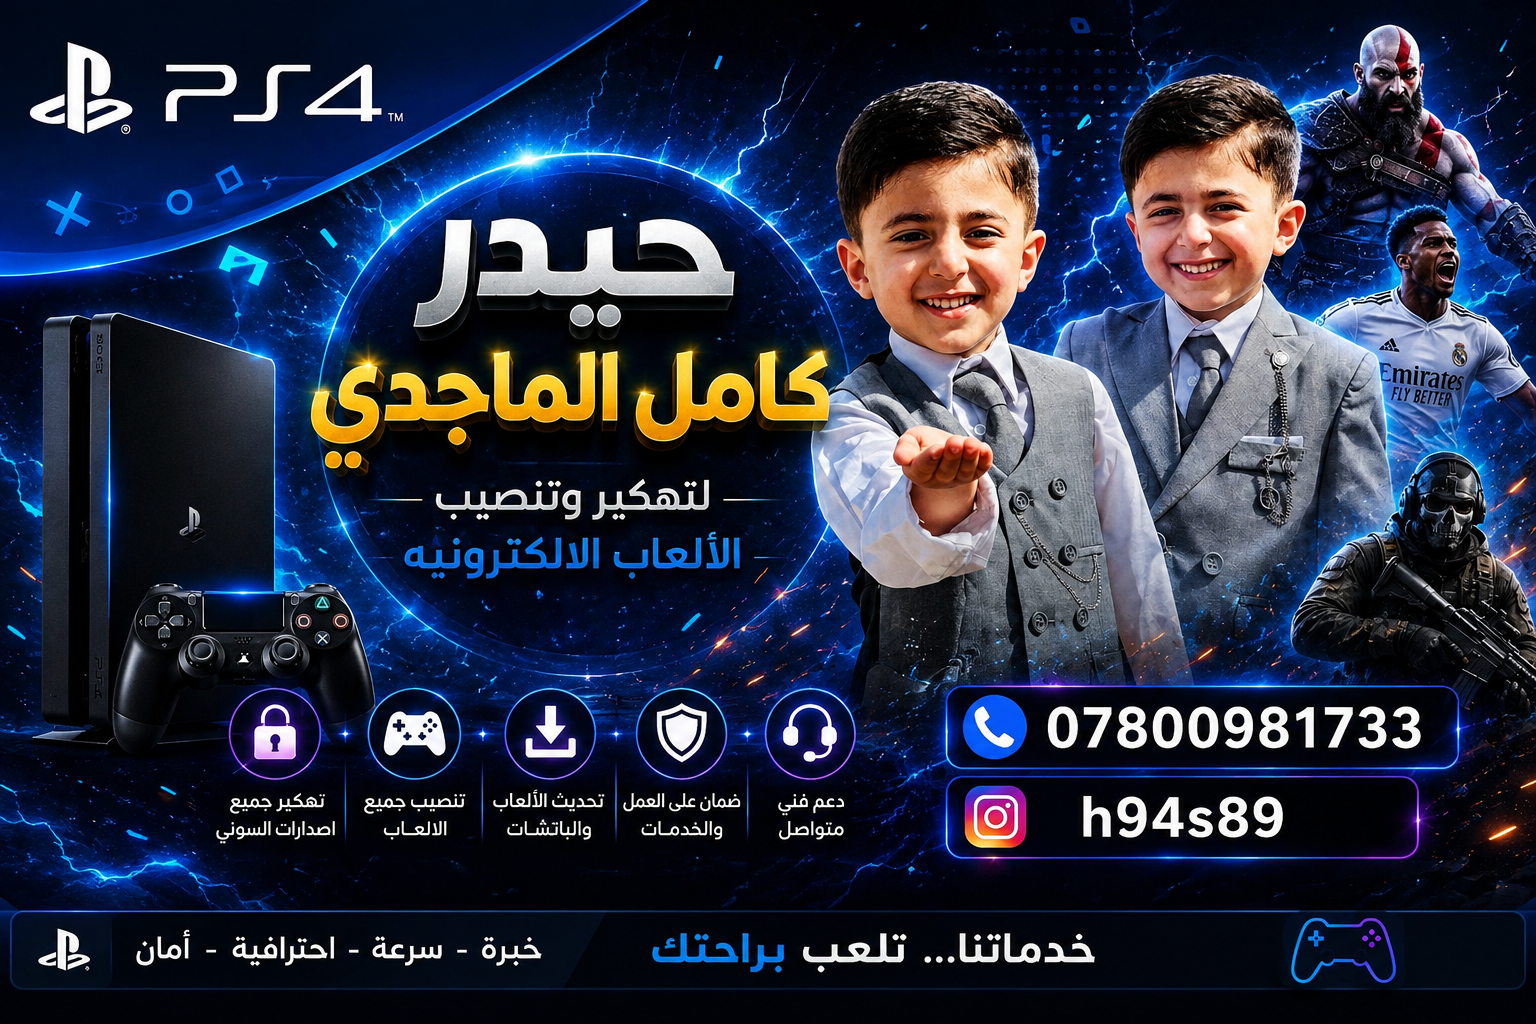
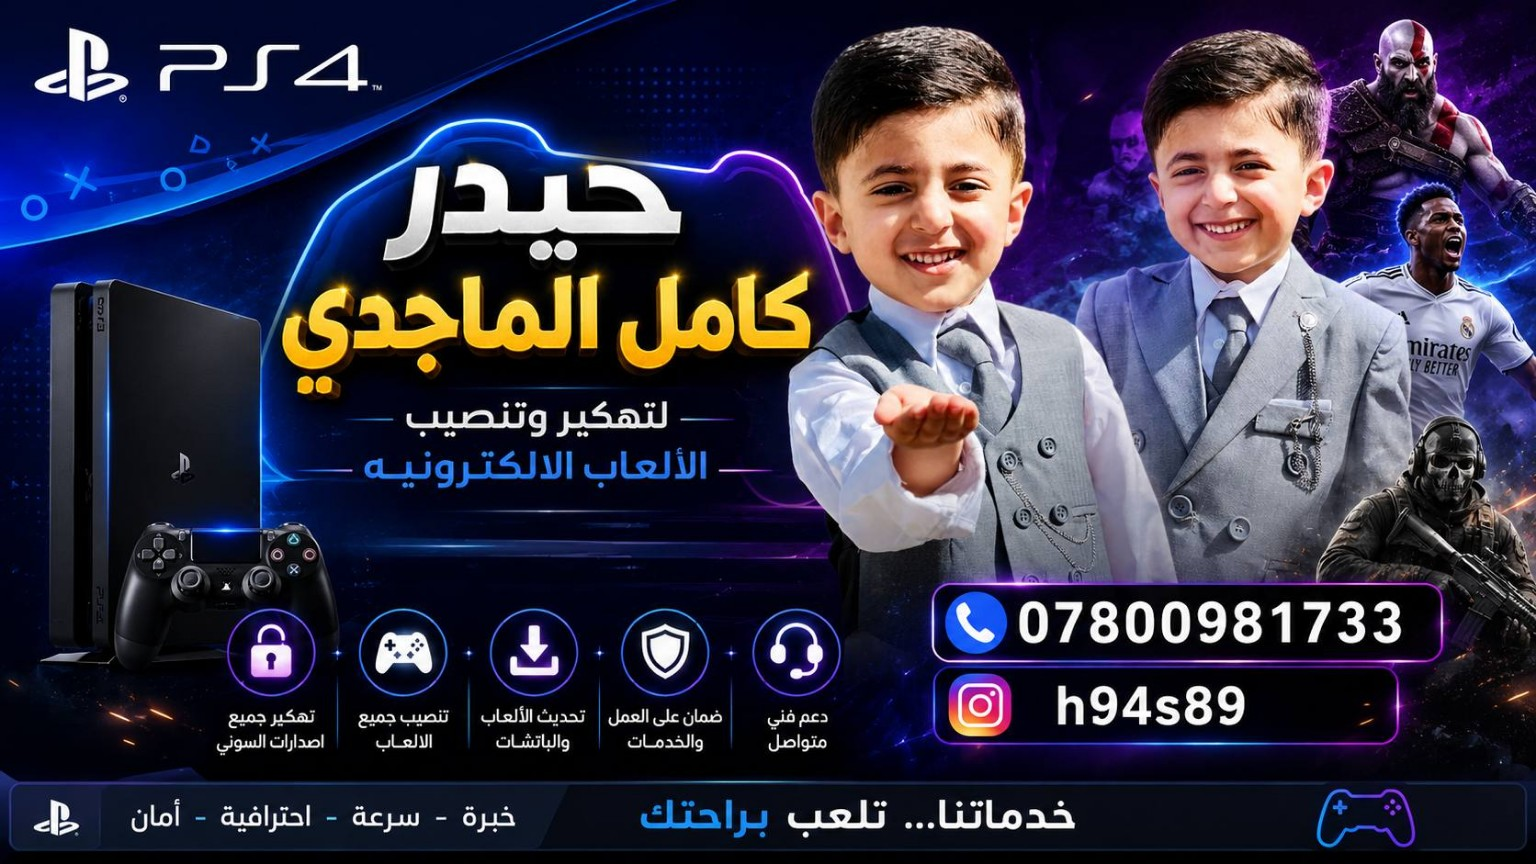
Add files via upload

diff --git a/index.html b/index.html
@@ -27,7 +27,7 @@
 <link rel="stylesheet" href="unified-theme.css">
 <style id="global-background-fix">
 html,body{min-height:100%;margin:0;}
-body{background-color:#020711 !important;background-image:url("background.png") !important;background-size:cover !important;background-position:center center !important;background-repeat:no-repeat !important;background-attachment:fixed !important;}
+body{background-color:#020711 !important;background-image:url("background.png") !important;background-size:cover !important;background-position:relative center !important;background-repeat:no-repeat !important;background-attachment:fixed !important;}
 </style>
 <style id="pro-theme">
 :root{
@@ -44,7 +44,7 @@ body{
   color:var(--text)!important;
   background-color:#020714!important;
   background-size:cover!important;
-  background-position:center!important;
+  background-position:relative!important;
   background-repeat:no-repeat!important;
   background-attachment:fixed!important;
   font-family:Arial,sans-serif!important;
@@ -74,26 +74,125 @@ h1,h2,h3{color:#f5fdff!important;text-shadow:0 0 10px rgba(32,217,255,.25)!impor
 </style>
 <style id="user-background">
 html,body{min-height:100%!important;margin:0!important}
-body{background-color:#020714!important;background-image:url("background.png")!important;background-size:cover!important;background-position:center center!important;background-repeat:no-repeat!important;background-attachment:fixed!important}
+body{background-color:#020714!important;background-image:url("background.png")!important;background-size:cover!important;background-position:relative center!important;background-repeat:no-repeat!important;background-attachment:fixed!important}
+</style><style id="all-firmware-centered-compact">
+/* Unified compact/centered UI for every firmware page. UI-only; exploit scripts/assets untouched. */
+html,body{min-height:100%;margin:0!important;}
+body{min-height:100vh!important;width:100%!important;box-sizing:border-box!important;display:flex!important;flex-direction:column!important;align-items:center!important;justify-content:center!important;overflow-x:hidden!important;padding:10px!important;}
+body>*{box-sizing:border-box!important;}
+.container,.main-layout,#wrap,.page,.card,.wrap{width:min(430px,88vw)!important;max-width:430px!important;margin-left:auto!important;margin-right:auto!important;}
+.container{min-height:0!important;padding:10px!important;}
+.main-layout{min-height:0!important;}
+.header-section{margin:0 0 7px!important;}
+.main-title,h1,.title,#state{font-size:clamp(17px,2.5vw,24px)!important;line-height:1.15!important;margin:0 0 6px!important;}
+#det,#cache,.fw,.status{font-size:10px!important;line-height:1.35!important;}
+#console{width:100%!important;max-width:430px!important;max-height:125px!important;min-height:45px!important;padding:7px 9px!important;font-size:9px!important;line-height:1.35!important;overflow:auto!important;box-sizing:border-box!important;}
+.btn-container,.autoJb,#kernel-options{max-width:430px!important;margin-left:auto!important;margin-right:auto!important;}
+button,#jeilbrek,[type=button]{min-width:150px!important;width:180px!important;height:40px!important;font-size:12px!important;margin:6px auto!important;}
+.action{width:210px!important;height:115px!important;margin:8px auto!important;padding:9px!important;}
+.action button{width:160px!important;height:40px!important;}
+.url{width:min(430px,88vw)!important;height:30px!important;font-size:9px!important;}
+.logbox{width:min(430px,88vw)!important;height:min(145px,24vh)!important;}
+.loghead{height:27px!important;padding:7px 9px!important;font-size:9px!important;}
+.logbox #console{max-height:none!important;height:calc(100% - 27px)!important;}
+.footer{font-size:8px!important;margin-top:7px!important;}
+#cache-status{width:min(390px,82vw)!important;padding:14px 16px!important;border-radius:12px!important;}
+#cache-status>div:first-child{font-size:17px!important;}
+#cache-text{font-size:12px!important;}
+@media(max-height:650px){body{padding:6px!important}.action{height:95px!important;margin:5px auto!important}.logbox{height:105px!important}.url{height:27px!important}.main-title,h1,.title,#state{font-size:18px!important}}
 </style>
-
-<style id="small-start-status">
-#small-start-status{
- position:fixed;left:50%;top:50%;transform:translate(-50%,-50%);
- z-index:2147483646;width:245px;min-height:105px;box-sizing:border-box;
- padding:10px 12px;border:1px solid rgba(32,217,255,.75);
- border-radius:10px;background:rgba(2,7,18,.82);
- box-shadow:0 0 18px rgba(32,217,255,.16),inset 0 0 12px rgba(32,217,255,.05);
- color:#eafcff;font:12px Arial,sans-serif;display:none;
+<style id="ui-final-center-compact">
+/* FINAL UI LAYOUT — visual sizing/position only */
+html,body{width:100%!important;min-width:0!important;min-height:100%!important;margin:0!important;padding:0!important;overflow-x:hidden!important;}
+body{display:flex!important;align-items:center!important;justify-content:center!important;box-sizing:border-box!important;padding:8px!important;}
+body>*{box-sizing:border-box!important;}
+#wrap,.wrap,.container,.main-container,.page,.app,.panel,.card,.box{
+  box-sizing:border-box!important;
 }
-#small-start-status .st{font-size:11px;color:#55eaff;margin-bottom:7px}
-#small-start-status .row{line-height:18px;color:#ccecf5}
-#small-start-status .ok{color:#5cff8a}
+#wrap,.wrap{
+  width:min(360px,82vw)!important;
+  max-width:360px!important;
+  min-width:0!important;
+  margin:0 auto!important;
+}
+#wrap .card,.wrap .card,.card{
+  width:100%!important;
+  max-width:360px!important;
+  margin:0 auto!important;
+  box-sizing:border-box!important;
+}
+.main-container,.container,.panel,.box{
+  width:min(360px,82vw)!important;
+  max-width:360px!important;
+  min-width:0!important;
+  margin-left:auto!important;margin-right:auto!important;
+}
+.main-title,h1,.title,#state,.brand{
+  font-size:18px!important;
+  line-height:1.2!important;
+  margin:5px auto!important;
+}
+.sub,.subtitle,.description{font-size:10px!important;line-height:1.25!important;}
+.action,.actions{
+  width:100%!important;
+  max-width:340px!important;
+  min-height:0!important;
+  height:auto!important;
+  margin:5px auto!important;
+  padding:7px!important;
+  box-sizing:border-box!important;
+}
+button,.btn,.button,a.button{
+  max-width:100%!important;
+  min-height:30px!important;
+  height:auto!important;
+  padding:6px 10px!important;
+  font-size:12px!important;
+  box-sizing:border-box!important;
+}
+input,select{max-width:100%!important;box-sizing:border-box!important;}
+.logbox{
+  width:100%!important;
+  max-width:340px!important;
+  height:105px!important;
+  margin:6px auto!important;
+  box-sizing:border-box!important;
+}
+.loghead{height:25px!important;padding:5px 7px!important;font-size:9px!important;}
+.logbox #console,#console{
+  max-width:100%!important;
+  font-size:9px!important;
+  line-height:1.25!important;
+  box-sizing:border-box!important;
+}
+.url{
+  width:100%!important;
+  max-width:340px!important;
+  height:27px!important;
+  margin:5px auto!important;
+  font-size:10px!important;
+  box-sizing:border-box!important;
+}
+.footer{font-size:8px!important;margin:5px auto!important;}
+.bar{max-width:340px!important;margin:6px auto!important;}
+#cache-status{max-width:340px!important;width:100%!important;box-sizing:border-box!important;}
+/* Correct invalid declaration used by older pages */
+[style*="position:center"]{position:relative!important;}
+@media (max-width:600px){
+  #wrap,.wrap,.main-container,.container,.panel,.box,.card{width:min(340px,84vw)!important;max-width:340px!important;}
+}
+@media (max-height:650px){
+  body{padding:5px!important;align-items:center!important;}
+  .main-title,h1,.title,#state,.brand{font-size:16px!important;margin:3px auto!important;}
+  .action,.actions{padding:5px!important;margin:3px auto!important;}
+  .logbox{height:85px!important;margin:4px auto!important;}
+  .loghead{height:22px!important;}
+  .url{height:24px!important;margin:3px auto!important;}
+  button,.btn,.button,a.button{min-height:27px!important;padding:4px 8px!important;font-size:11px!important;}
+}
 </style>
-<style id="keep-original-background">html,body{min-height:100%;margin:0}body{background:#020714 url("background.png") center/cover no-repeat fixed!important}</style><style id="exact-user-background">
-html,body{min-height:100%!important;margin:0!important;background:#020714!important;}
-body{background-image:url("background.jpg")!important;background-size:cover!important;background-position:center center!important;background-repeat:no-repeat!important;background-attachment:fixed!important;}
-</style></head>
+<link rel="stylesheet" href="transparent-ui.css">
+</head>
 <body>
 
     <audio id="bg-music" preload="auto" loop playsinline><source src="music_background.mp3" type="audio/mpeg"></audio>
@@ -262,14 +361,5 @@ window.jailbreakSuccess=function(){if(typeof old==='function'){try{old.apply(thi
 setInterval(function(){sample();if(successText())activate();render()},100);
 })();
 </script>
-
-
-<div id="small-start-status" aria-hidden="true">
-  <div class="st">STATUS: <span>READY</span></div>
-  <div class="row">[+] Init</div>
-  <div class="row">[+] Patch</div>
-  <div class="row">[+] Payload</div>
-  <div class="row ok">✓ Done!</div>
-</div>
 </body>
 </html>

diff --git a/transparent-ui.css b/transparent-ui.css
@@ -1,0 +1,27 @@
+/* TRANSPARENT WALLPAPER UI - visual only */
+html,body{width:100%!important;min-height:100%!important;margin:0!important}
+body{background:url('../background.png') center center/cover no-repeat fixed!important;}
+/* root page uses local background */
+body{background-image:url('background.png')!important;background-color:transparent!important}
+/* Keep the wallpaper visible; UI surfaces are intentionally translucent. */
+.container,#wrap,.wrap,.main-container,.main-layout,.page,.app,.panel,.card,.box,.action,.logbox,#console,#brand,.menu{
+  background-color:rgba(3,8,18,.18)!important;
+  background-image:none!important;
+  border-color:rgba(120,190,255,.42)!important;
+  box-shadow:0 8px 28px rgba(0,0,0,.20),inset 0 0 22px rgba(70,150,255,.035)!important;
+}
+#brand{background-color:rgba(3,8,18,.12)!important}
+#console,.console,.log,.output,[id*="console"],[class*="console"]{background-color:rgba(2,7,16,.24)!important}
+button,.button,.btn,a.button{background:rgba(20,95,190,.48)!important;border:1px solid rgba(120,205,255,.55)!important;box-shadow:0 5px 16px rgba(0,0,0,.22)!important}
+input,select,textarea{background:rgba(1,7,15,.25)!important}
+body:before{background:linear-gradient(180deg,rgba(0,0,0,.05),rgba(0,0,0,.12))!important;opacity:1!important}
+body:after{background:none!important}
+/* Compact centered panel */
+body{display:flex!important;align-items:center!important;justify-content:center!important;overflow-x:hidden!important;padding:8px!important;box-sizing:border-box!important}
+#wrap,.wrap,.container,.main-container,.main-layout,.page,.app{width:min(360px,82vw)!important;max-width:360px!important;min-width:0!important;margin:0 auto!important}
+.container{min-height:0!important;padding:8px!important}
+.main-title,h1,.title,#state{font-size:18px!important;line-height:1.2!important}
+button,.btn,.button,a.button{min-height:30px!important;padding:6px 10px!important;font-size:12px!important}
+.logbox{width:100%!important;max-width:340px!important;height:105px!important;margin:6px auto!important}
+#console{max-width:100%!important;max-height:105px!important;font-size:9px!important;line-height:1.25!important}
+@media(max-height:650px){body{padding:5px!important}.logbox{height:90px!important}.main-title,h1,.title,#state{font-size:17px!important}}
